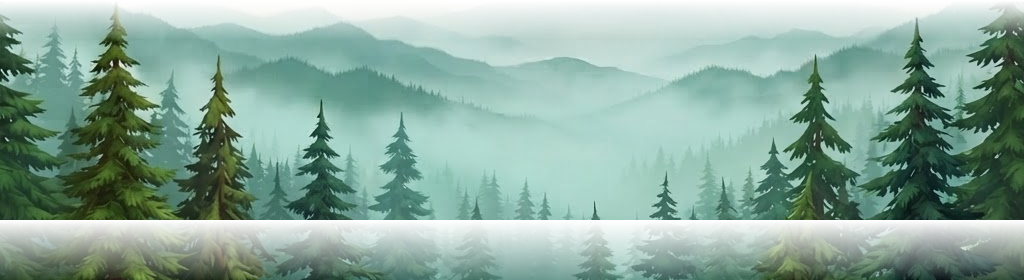
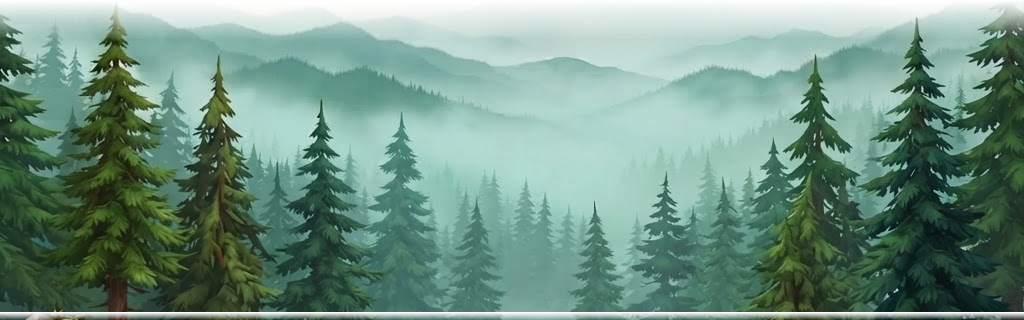
LAYER 2 v2 (Bude: 'The line at the middle should be there'): ridge slice extended through the fir treeline (plate rows 200-520), treeline lands mid-frame per plate composition; fixed the band scale bug (uniform aspect sizing was 2.16x too tall vertically - the plate mapping is non-uniform: x 16.2u/1

diff --git a/unity/Assets/Editor/LilFootsArtPass.cs b/unity/Assets/Editor/LilFootsArtPass.cs
@@ -96,11 +96,26 @@ namespace LilFoots.EditorTools
             // Band top row 200 -> world y 6.78; center row 340 -> world 5.76 -> local 1.26.
             var ridges = Art("art_ridges.png");
             if (ridges != null && cam != null && L(2)) {
-                // STATIC VISTA LAW (Bude): ridges ride with the camera - only the gameplay plane scrolls.
-                float ridgeW = 16.2f;
-                float ridgeH = ridgeW * (ridges.bounds.size.y / ridges.bounds.size.x);
-                SpriteGo("Ridges", ridges, Vector3.zero, ridgeW, -90, cam.transform)
-                    .transform.localPosition = new Vector3(0f, 1.26f, 10f);
+                // LAYER 2 v2 (Bude: 'The line at the middle should be there'): ridge band runs from
+                // the haze tops down THROUGH the fir treeline, so the plate's mid line lands at the
+                // frame middle. Plate frame mapping is non-uniform on purpose (wide engine view):
+                // x = 16.2u/1024px, y = 7.5u/1024px. Slice = plate rows 200-520 (320px) -> 2.34u tall,
+                // top edge at plate row 200 -> view-top minus 200*7.5/1024 -> local 2.29.
+                // STATIC VISTA LAW (Bude): pinned to the camera - only the gameplay plane scrolls.
+                float px2uY = 7.5f / 1024f;          // plate vertical scale (composition-true)
+                float bandPx = 320f;                 // slice height in plate rows
+                float ridgeW = 16.2f;                // spans the view like the sky
+                float ridgeH = bandPx * px2uY;       // 2.34u - NOT aspect-derived (uniform sizing made
+                                                      // the band 2.16x too tall and pushed the treeline
+                                                      // off-frame; that was the missing mid-line bug)
+                float topLocal = 3.75f - (200f * px2uY); // plate row 200 -> world 6.79
+                var rgo = SpriteGo("Ridges", ridges, Vector3.zero, ridgeW, -90, cam.transform);
+                var rsr = rgo.GetComponent<SpriteRenderer>();
+                // explicit non-uniform scale: full width, plate-true height
+                rgo.transform.localScale = new Vector3(
+                    rgo.transform.localScale.x,               // width already set by SpriteGo
+                    ridgeH / rsr.bounds.size.y, 1f);
+                rgo.transform.localPosition = new Vector3(0f, topLocal - (ridgeH / 2f), 10f);
             }
             // dense fir wall — BAND ~1.5u tall at the ground line (old 12u-wide tile was 10.4u
             // tall — 1.4x the whole screen height; the map read as one zoomed wall texture)
